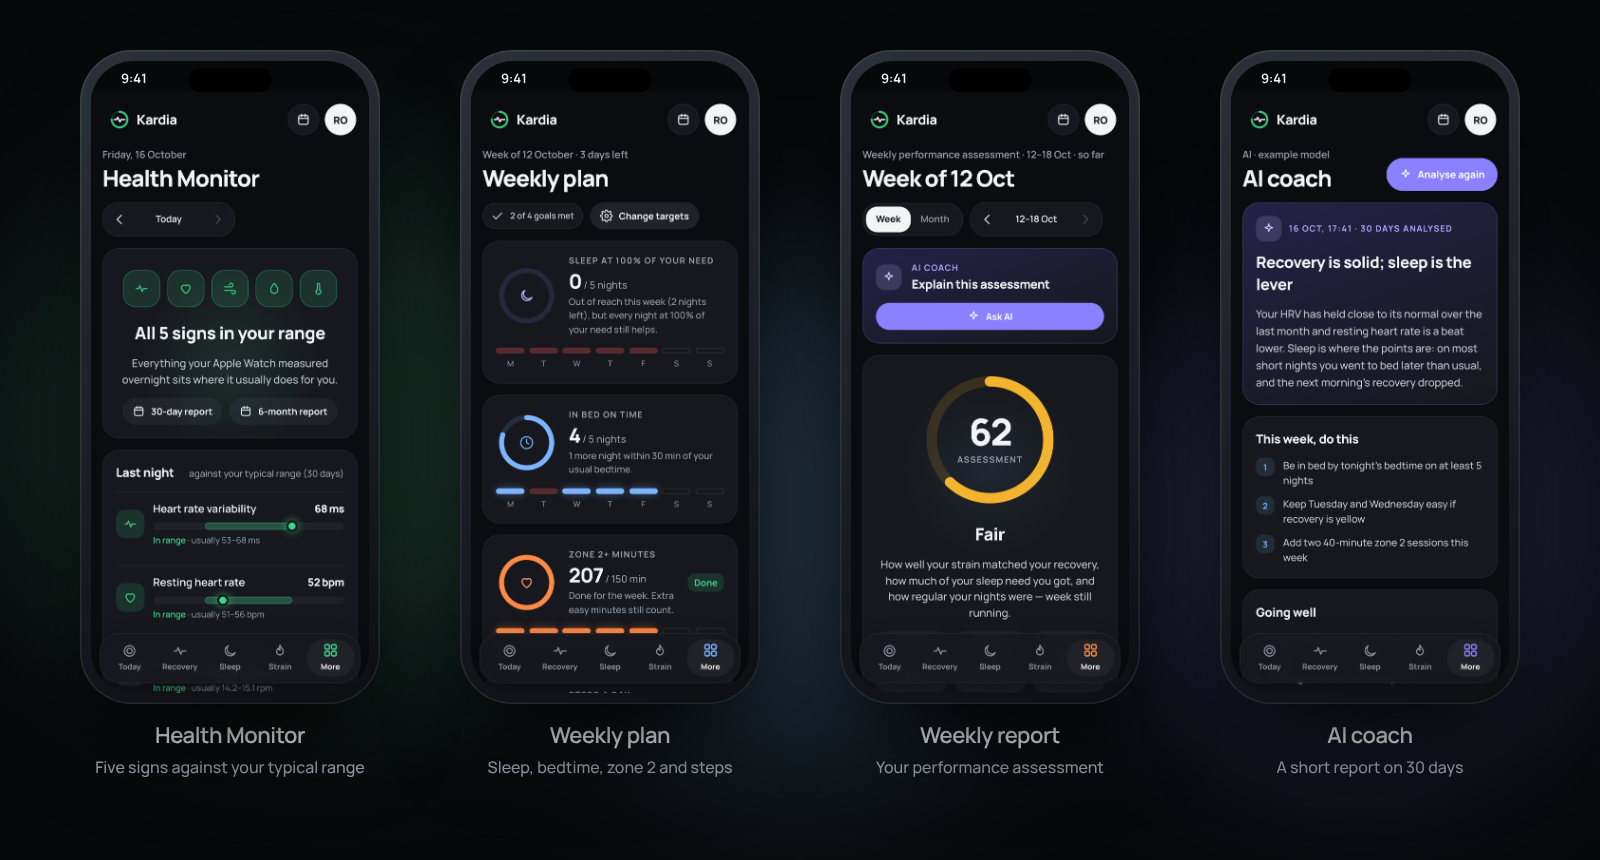
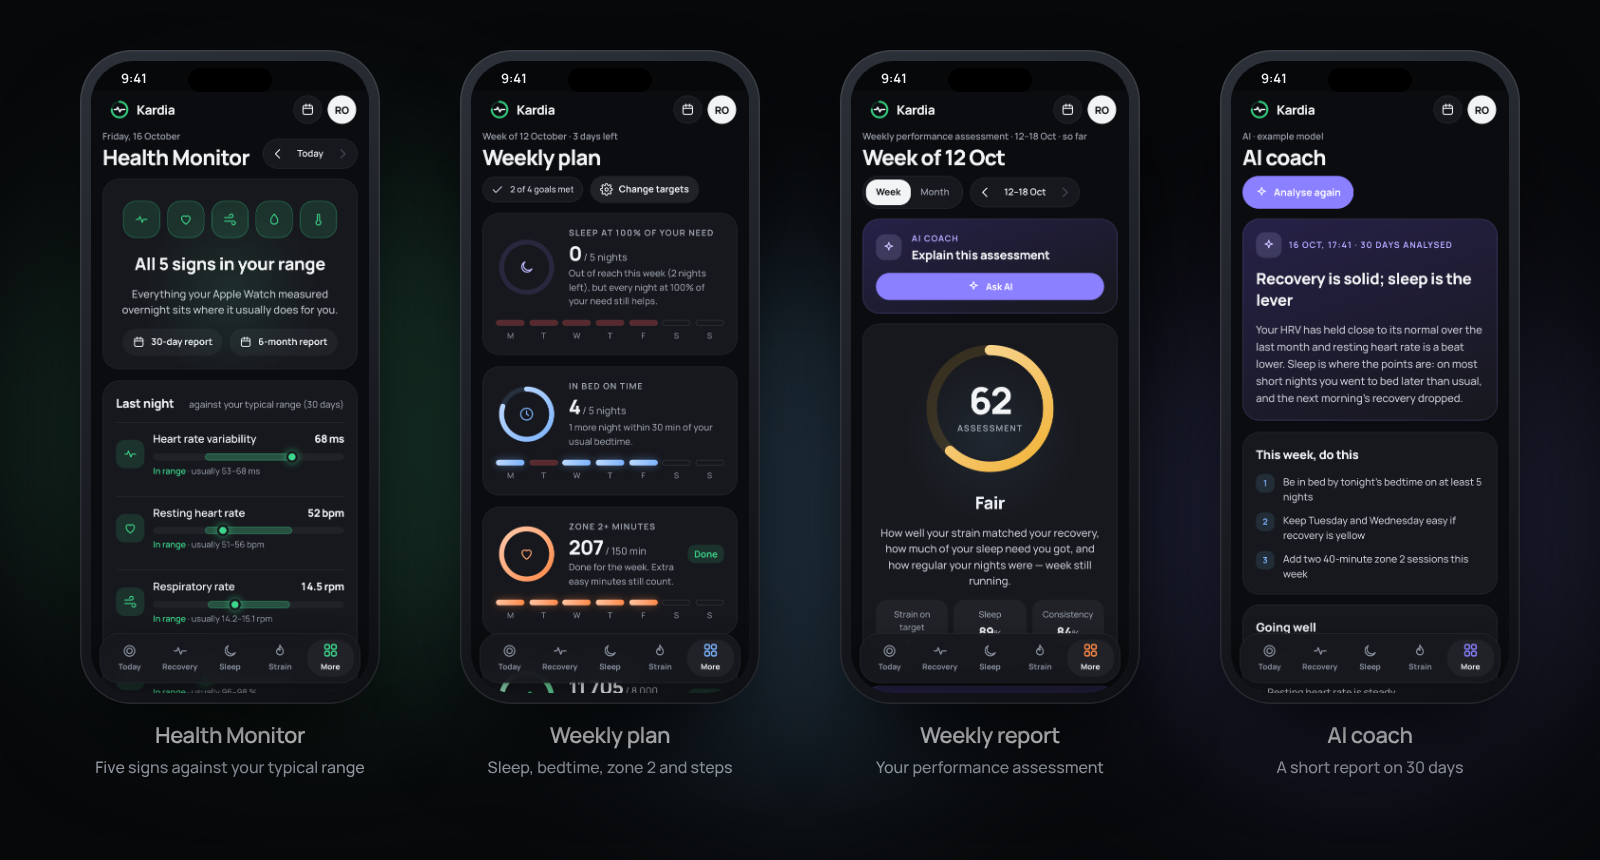
Today like the mock, a tighter top, gradient rings and bars
- Today: rings, then energy (number, bar and what it was spent on) and stress, then the four day tiles
  (steps, calories, zone 2+, bedtime) under stress; the coach after the Health Monitor and plan.
- Phone: the top bar closer to the edge, the title right under it with the day picker beside it, 'Today'
  instead of the greeting and a green dot instead of the sync chip; heads with more buttons wrap.
- Rings, meters, the strain target, plan days and the energy bar in a soft gradient of their colour.

Claude-Session: https://claude.ai/code/session_013TrDBzp2FF2rNixhPFYxgN

diff --git a/Kardia.Website/wwwroot/css/app.css b/Kardia.Website/wwwroot/css/app.css
@@ -1065,3 +1065,67 @@ h1, h2, h3 { font-weight: 800; letter-spacing: -0.025em; }
 .sec-calendar { --accent: var(--rec); --accent-soft: var(--rec-soft); }
 .sec-breathe { --accent: var(--sky); --accent-soft: color-mix(in srgb, var(--sky) 14%, transparent); }
 .st-rem, [data-theme="light"] .st-rem { fill: var(--rem); } .st-core, [data-theme="light"] .st-core { fill: var(--slp); } .st-deep, [data-theme="light"] .st-deep { fill: var(--slp-2); }
+
+/* ======================================================= v1.3.1 polish == */
+
+/* Rings and progress bars in a soft gradient of their colour. */
+.rg-a { stop-color: color-mix(in srgb, var(--ring, var(--rec)) 45%, #FFFFFF); }
+.rg-b { stop-color: var(--ring, var(--rec)); }
+[data-theme="light"] .rg-a { stop-color: color-mix(in srgb, var(--ring, var(--rec)) 55%, #FFFFFF); }
+.meter i { background: linear-gradient(90deg, color-mix(in srgb, var(--fill, var(--rec)) 50%, #FFFFFF), var(--fill, var(--rec))); }
+.target .fill { background: linear-gradient(90deg, color-mix(in srgb, var(--str) 45%, #FFFFFF), var(--str)); }
+.progress i { background: linear-gradient(90deg, color-mix(in srgb, var(--sky) 45%, #FFFFFF), var(--sky)); }
+.pd.met i { background: linear-gradient(90deg, color-mix(in srgb, var(--pg, var(--rec)) 50%, #FFFFFF), var(--pg, var(--rec))); }
+
+/* Today: energy like the mock, the four day tiles under stress. */
+.ttl-ico { display: inline-flex; align-items: center; gap: 10px; }
+.ttl-ico .ico-chip { width: 36px; height: 36px; border-radius: 12px; }
+.ttl-ico .ico-chip .ic { width: 19px; height: 19px; }
+.ico-chip.nrg { --chip-bg: var(--nrg-soft); --chip-fg: var(--nrg); }
+.card-head:has(.ttl-ico) { align-items: center; }
+.energy-card { gap: 14px; }
+.en-big { display: flex; align-items: baseline; gap: 8px; }
+.en-big b { font-size: 46px; line-height: 1; }
+.en-big span { font-size: 15px; font-weight: 600; color: var(--muted); }
+.en-bar { height: 14px; border-radius: 7px; background: var(--line-2); overflow: hidden; }
+[data-theme="light"] .en-bar { background: rgba(16, 24, 40, 0.07); }
+.en-bar i { display: block; height: 100%; border-radius: 7px; background: linear-gradient(90deg, color-mix(in srgb, var(--nrg) 45%, #FFFFFF), var(--nrg)); animation: grow 1.1s var(--ease) both; transform-origin: left; }
+.en-drain { display: grid; grid-template-columns: repeat(3, minmax(0, 1fr)); gap: 8px; }
+.en-drain .k { display: flex; align-items: center; gap: 6px; font-size: 12px; font-weight: 600; color: var(--muted); }
+.en-drain .k i { width: 8px; height: 8px; border-radius: 4px; flex: none; }
+.en-drain b { font-size: 18px; }
+.tile-grid { flex: 1 1 320px; display: grid; grid-template-columns: repeat(2, minmax(0, 1fr)); gap: 12px; }
+.day-tile { gap: 6px; padding: 16px; }
+.day-tile .k { display: flex; align-items: center; gap: 6px; font-size: 13px; font-weight: 600; color: var(--muted); }
+.day-tile .k .ic { width: 15px; height: 15px; }
+.day-tile b { font-size: 26px; line-height: 1.1; }
+.day-tile small { font-size: 12px; color: var(--dim); }
+
+/* Shown only on the phone or only on the computer, inline. */
+.on-phone { display: none; }
+@media (max-width: 1023px) {
+  .on-phone { display: inline; }
+  .on-desk { display: none !important; }
+
+  /* A tighter top: the bar closer to the edge, the title right under it, the day picker beside the title. */
+  .phone-top { padding-top: calc(6px + env(safe-area-inset-top)); padding-bottom: 6px; }
+  .phone-top .brand { font-size: 18px; }
+  .phone-top .icon-btn, .phone-top .avatar { width: 40px; height: 40px; }
+  .page { padding-top: 2px; gap: 14px; }
+  .head { flex-wrap: nowrap; gap: 10px; align-items: flex-end; }
+  .head > div:first-child { min-width: 0; }
+  .head .eyebrow { font-size: 13px; }
+  .head h1 { font-size: 30px; margin-top: 2px; }
+  .head .head-acts { flex: none; flex-wrap: nowrap; }
+  .head:has(.head-acts > :not(.datenav):not(.on-desk)) { flex-wrap: wrap; }
+  .head:has(.head-acts > :not(.datenav):not(.on-desk)) .head-acts { flex-wrap: wrap; }
+  .datenav { padding: 3px; }
+  .datenav a, .datenav span.off { width: 34px; height: 34px; }
+  .datenav .label { min-width: 0; padding: 0 6px; font-size: 13px; }
+  .week { padding: 6px; }
+  .week a { min-height: 58px; padding: 4px 0; }
+  .en-big b { font-size: 40px; }
+}
+.sync-dot { width: 7px; height: 7px; margin-left: 8px; border-radius: 50%; background: var(--rec); vertical-align: 2px; }
+@media (max-width: 1023px) { .sync-dot.on-phone { display: inline-block; } .head .eyebrow { white-space: nowrap; overflow: hidden; text-overflow: ellipsis; } }
+@media (max-width: 1023px) { .head:has(.head-acts > :not(.datenav):not(.on-desk)) .head-acts { flex: 1 1 100%; min-width: 0; } }

diff --git a/Kardia.Website/Helpers/Charts.cs b/Kardia.Website/Helpers/Charts.cs
@@ -20,7 +20,7 @@ public static class Charts
     private static int _ids;
 
     /// <summary>
-    /// A score ring: a flat track and the value in the pillar's colour with round caps, plus (for strain) the target
+    /// A score ring: a flat track and the value in a soft gradient of the pillar's colour with round caps, plus (for strain) the target
     /// arc just outside it.
     /// </summary>
     /// <param name="fraction">How full, 0–1.</param>
@@ -44,8 +44,10 @@ public static class Charts
         var length = value * RingLength;
         var width = thin ? 18 : 16;
 
+        var id = NextId();
         var svg = new StringBuilder();
         svg.Append(Invariant, $"<svg class=\"ring p-{palette}\" viewBox=\"0 0 220 220\" aria-hidden=\"true\" style=\"--ring:{colour}\">");
+        svg.Append(Invariant, $"<defs><linearGradient id=\"{id}\" x1=\"1\" y1=\"0\" x2=\"0\" y2=\"1\"><stop offset=\"0\" class=\"rg-a\"/><stop offset=\"1\" class=\"rg-b\"/></linearGradient></defs>");
         svg.Append(Invariant, $"<circle cx=\"110\" cy=\"110\" r=\"90\" fill=\"none\" class=\"ring-track\" stroke-width=\"{width}\"/>");
         svg.Append("<g transform=\"rotate(-90 110 110)\">");
         if (target is { } arc && !thin)
@@ -58,7 +60,7 @@ public static class Charts
 
         if (length > 0.5)
         {
-            svg.Append(Invariant, $"<circle cx=\"110\" cy=\"110\" r=\"90\" fill=\"none\" class=\"ring-val\" stroke-width=\"{width}\" stroke-linecap=\"round\" stroke-dasharray=\"{length:0.0} {RingLength:0.0}\"/>");
+            svg.Append(Invariant, $"<circle cx=\"110\" cy=\"110\" r=\"90\" fill=\"none\" class=\"ring-val\" style=\"stroke:url(#{id})\" stroke-width=\"{width}\" stroke-linecap=\"round\" stroke-dasharray=\"{length:0.0} {RingLength:0.0}\"/>");
         }
 
         svg.Append("</g></svg>");
